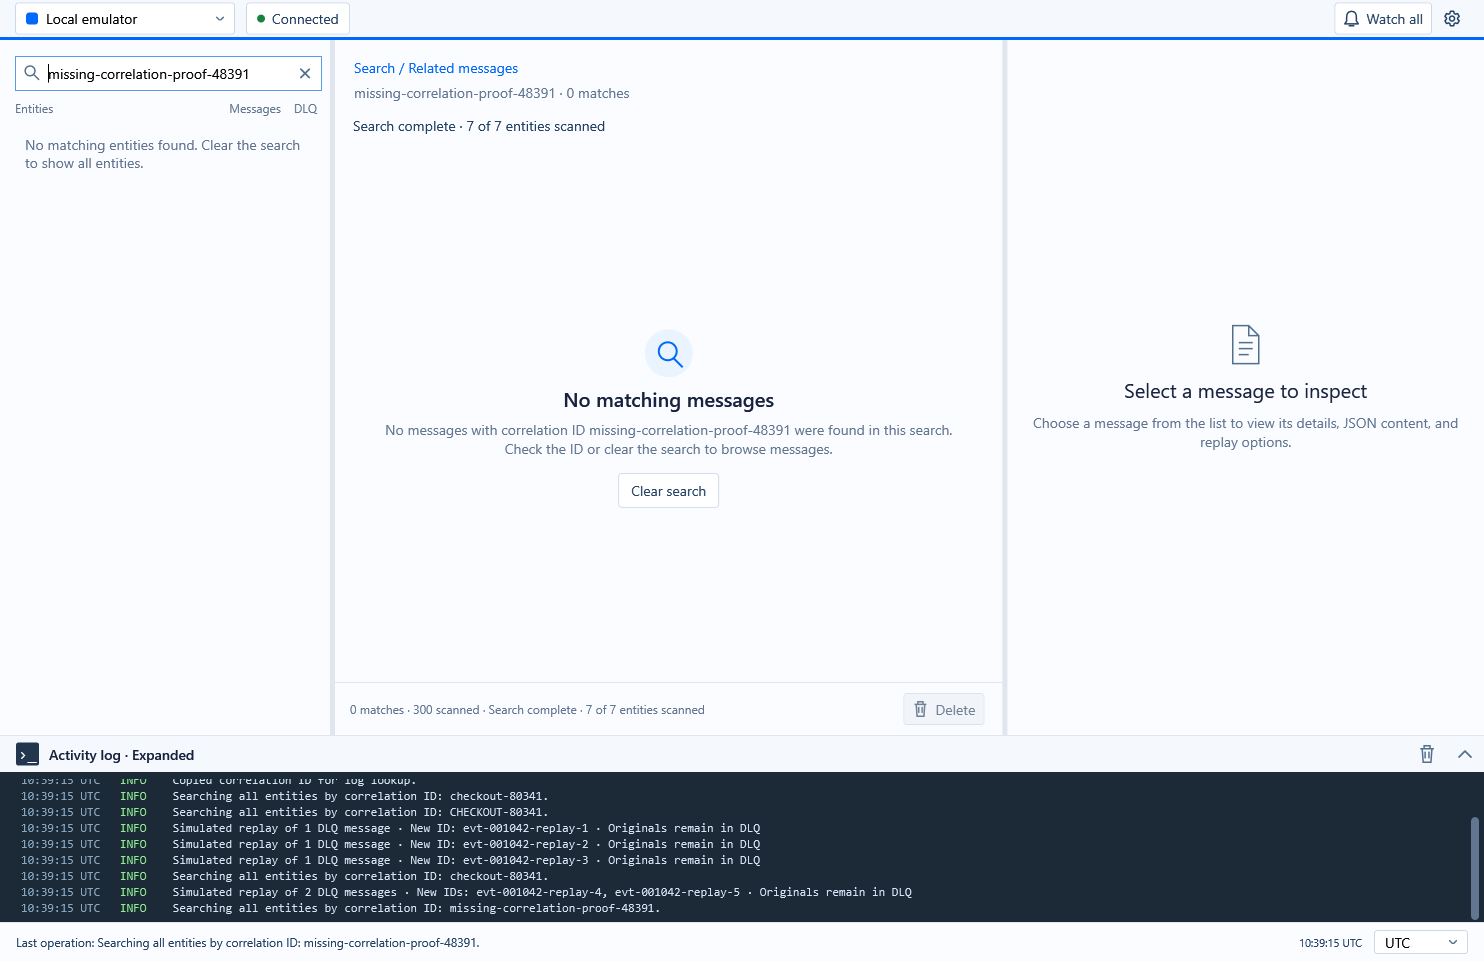
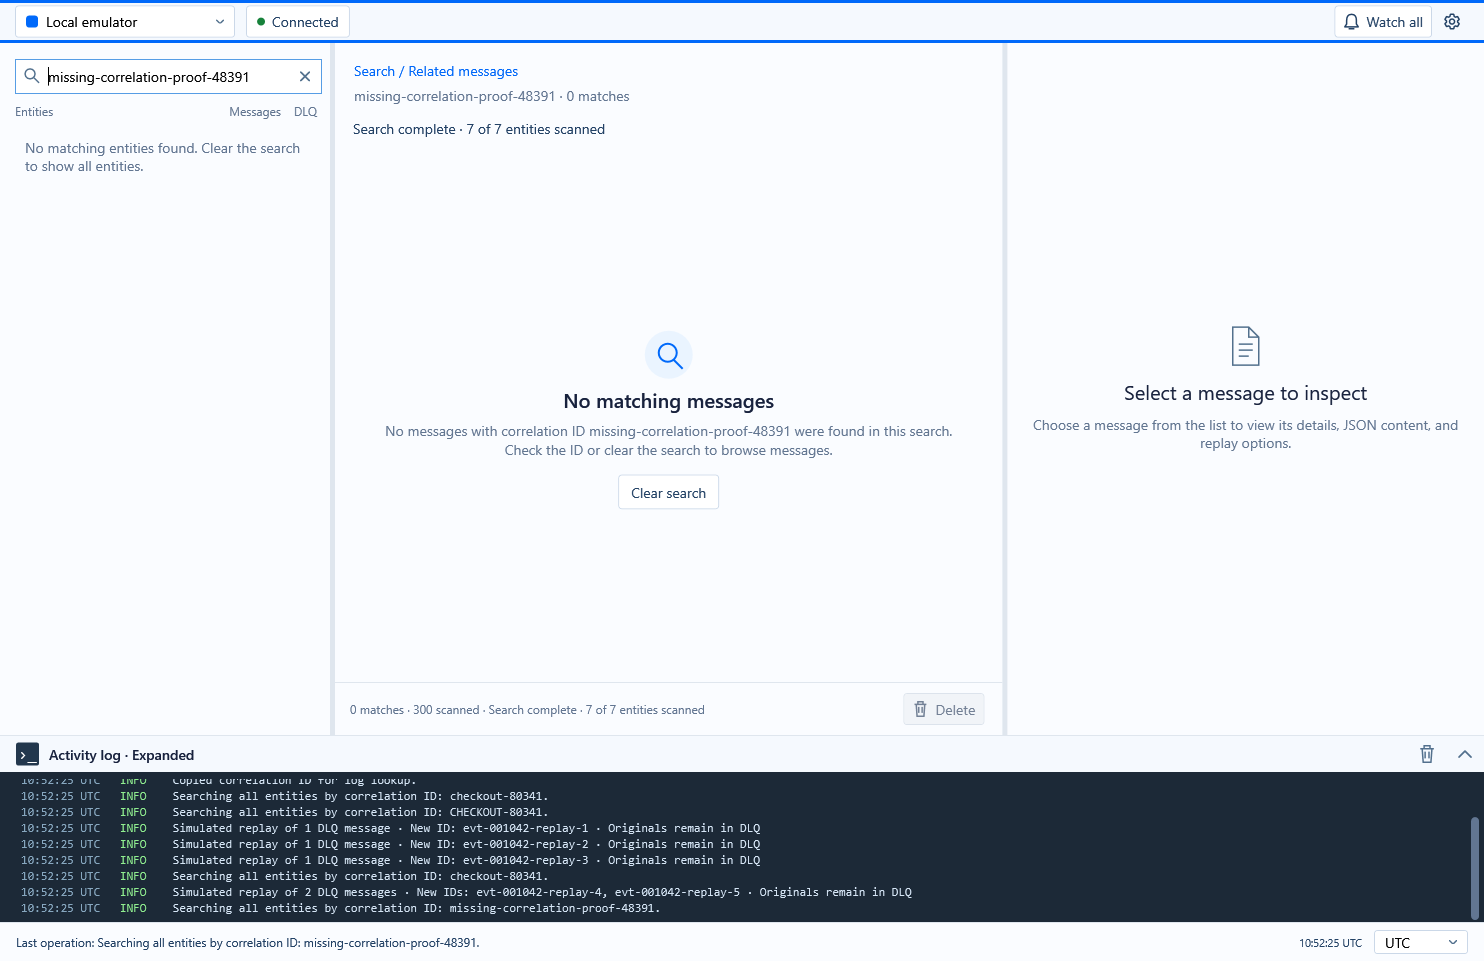
Frame prototype toolbar with top and bottom profile accents

diff --git a/tools/ServiceBusEmulatorExplorer.InvestigationPrototype/PrototypeWindow.xaml b/tools/ServiceBusEmulatorExplorer.InvestigationPrototype/PrototypeWindow.xaml
@@ -53,8 +53,8 @@
   </HierarchicalDataTemplate>
  </ResourceDictionary></Window.Resources>
  <Grid Background="{DynamicResource CanvasBrush}">
-  <Grid.RowDefinitions><RowDefinition Height="40"/><RowDefinition Height="*"/><RowDefinition Height="Auto"/><RowDefinition Height="Auto"/></Grid.RowDefinitions>
-  <Border x:Name="ProfileAccentBorder" Background="{DynamicResource ChromeBrush}" BorderBrush="{DynamicResource PrimaryBrush}" BorderThickness="0,0,0,3">
+  <Grid.RowDefinitions><RowDefinition Height="43"/><RowDefinition Height="*"/><RowDefinition Height="Auto"/><RowDefinition Height="Auto"/></Grid.RowDefinitions>
+  <Border x:Name="ProfileAccentBorder" Background="{DynamicResource ChromeBrush}" BorderBrush="{DynamicResource PrimaryBrush}" BorderThickness="0,3,0,3">
    <DockPanel Margin="15,0" LastChildFill="False">
     <StackPanel DockPanel.Dock="Left" Orientation="Horizontal" VerticalAlignment="Center">
      <ComboBox x:Name="ConnectionSelector" Width="220" Margin="0,0,8,0" Style="{StaticResource RefreshIntervalStyle}" SelectionChanged="ConnectionSelector_Changed" AutomationProperties.Name="Connection profile" AutomationProperties.AutomationId="ConnectionSelector">

diff --git a/tools/ServiceBusEmulatorExplorer.InvestigationPrototype/ChromePolishProof.cs b/tools/ServiceBusEmulatorExplorer.InvestigationPrototype/ChromePolishProof.cs
@@ -14,8 +14,8 @@ internal static class ChromePolishProof
     public static async Task Exercise(PrototypeWindow window, List<string> report, string output)
     {
         var accent = (Border)window.FindName("ProfileAccentBorder");
-        Check(accent.BorderThickness.Left == 0 && accent.BorderThickness.Top == 0 && accent.BorderThickness.Right == 0 && accent.BorderThickness.Bottom > 0,
-            "Profile accent is confined to the header bottom edge", report);
+        Check(accent.BorderThickness.Left == 0 && accent.BorderThickness.Top == 3 && accent.BorderThickness.Right == 0 && accent.BorderThickness.Bottom == 3,
+            "Profile accent frames both header edges without side borders", report);
         ProofCapture.Save(window, output, "header-bottom-accent");
         ProofCapture.Descendants(window).OfType<Button>().Single(button => AutomationProperties.GetName(button) == "Settings")
             .RaiseEvent(new RoutedEventArgs(ButtonBase.ClickEvent));

diff --git a/specs/investigation-workspace-handoff.md b/specs/investigation-workspace-handoff.md
@@ -54,7 +54,7 @@ Do not reopen visual design, add redundant controls, or run another prototype-de
 | Full-width activity console; clear only expanded | Implemented with 100 in-memory entries | Structured outcomes, redacted sensitive values, bounded history; decide persistence |
 | UTC/Local/Server selector | Display preference persisted; Server is sample −05:00 | Configure real server zone; retain original UTC instants and raw payloads |
 | Restore selections/preferences across launches | Separate prototype JSON store; user-scoped DPAPI for connection strings; per-profile Watch snapshots | Integrate production settings safely; migration, failure recovery and restart behavior must be proven |
-| Consistent colors/fonts/sizes/states | Shared resources, themed scrollbars, conventional cog, continuous accent divider below the toolbar and Settings without a duplicate content title implemented; rendered desktop/compact/minimum checks pass | Preserve approved tokens and complete the linked UI audit before production handoff |
+| Consistent colors/fonts/sizes/states | Shared resources, themed scrollbars, conventional cog, continuous accent lines above and below the toolbar and Settings without a duplicate content title implemented; rendered desktop/compact/minimum checks pass | Preserve approved tokens and complete the linked UI audit before production handoff |
 
 Keep entity creation/edit/delete, purge, advanced rule administration, scheduling and unrelated legacy features outside the primary workflow. Retaining existing backend code is different from exposing its entire old UI. Standalone Send New Message and replay of Active messages were not settled; do not silently add them.
 

diff --git a/specs/ui-language.md b/specs/ui-language.md
@@ -67,7 +67,7 @@ Current gate: **visual consistency and routed flows PASS** at the three supporte
 
 ## Final chrome polish (2026-09-12)
 
-The profile accent forms a continuous 3-DIP divider below the connection toolbar, meeting the pane splitters. Settings uses a conventional toothed cog and the native window title without a duplicate content heading. Each masked connection field has the shared rounded Copy icon, an accessible name and a tooltip; copying uses the current field value without logging it. Empty fields disable Copy.
+The profile accent forms continuous 3-DIP lines above and below the connection toolbar, meeting the pane splitters. Settings uses a conventional toothed cog and the native window title without a duplicate content heading. Each masked connection field has the shared rounded Copy icon, an accessible name and a tooltip; copying uses the current field value without logging it. Empty fields disable Copy.
 
 All shared scrollbars use an 18-DIP hit lane, a rounded 8-DIP visible thumb and profile-themed hover/drag feedback. Preserve wheel, keyboard, page and thumb behavior in both orientations. Dark editor/log backgrounds remain dark beneath the transparent track.
 

diff --git a/tools/ServiceBusEmulatorExplorer.InvestigationPrototype/README.md b/tools/ServiceBusEmulatorExplorer.InvestigationPrototype/README.md
@@ -112,4 +112,4 @@ dotnet run --project tools/ServiceBusEmulatorExplorer.InvestigationPrototype -- 
 
 Limits: proof uses routed WPF actions and editor documents, not every physical pointer gesture. No broker integration, exhaustive DPI matrix, or full screen-reader audit is claimed. The mockup supplies visual authority; platform font rasterization and live sample content differ from the generated image. The earlier modal replay editor and its walkthrough have been replaced by inline editing.
 
-Connection strings remain masked in Settings. Use the adjacent Copy button to share the current runtime or administration string; blank fields cannot be copied. The toolbar accent now sits below the controls, and scrollbars share the profile theme throughout the prototype.
+Connection strings remain masked in Settings. Use the adjacent Copy button to share the current runtime or administration string; blank fields cannot be copied. The toolbar accent frames the controls above and below, and scrollbars share the profile theme throughout the prototype.

diff --git a/tools/ServiceBusEmulatorExplorer.InvestigationPrototype/verification.md b/tools/ServiceBusEmulatorExplorer.InvestigationPrototype/verification.md
@@ -351,7 +351,7 @@ PASS: Space on a row checkbox toggles that checkbox once.
 - PASS: Saving the current profile does not trigger auto-connect
 - PASS: Auto-connect preference persists to an isolated preferences file
 - PASS: A fresh Settings window restores the saved auto-connect switch
-- PASS: Profile accent is confined to the header bottom edge
+- PASS: Profile accent frames both header edges without side borders
 - PASS: Settings content does not repeat the native window title
 - PASS: Blank connection fields disable their copy actions
 - PASS: Copy actions use the exact unsaved runtime and administration field values
